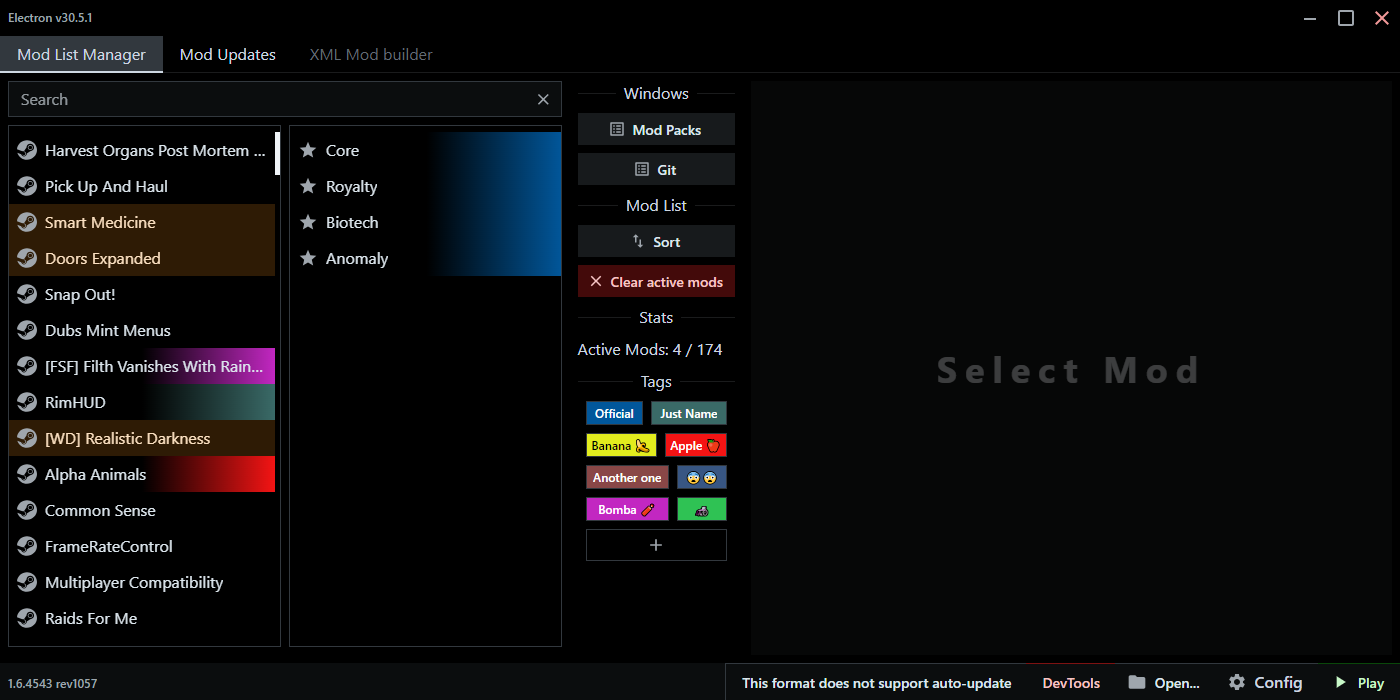
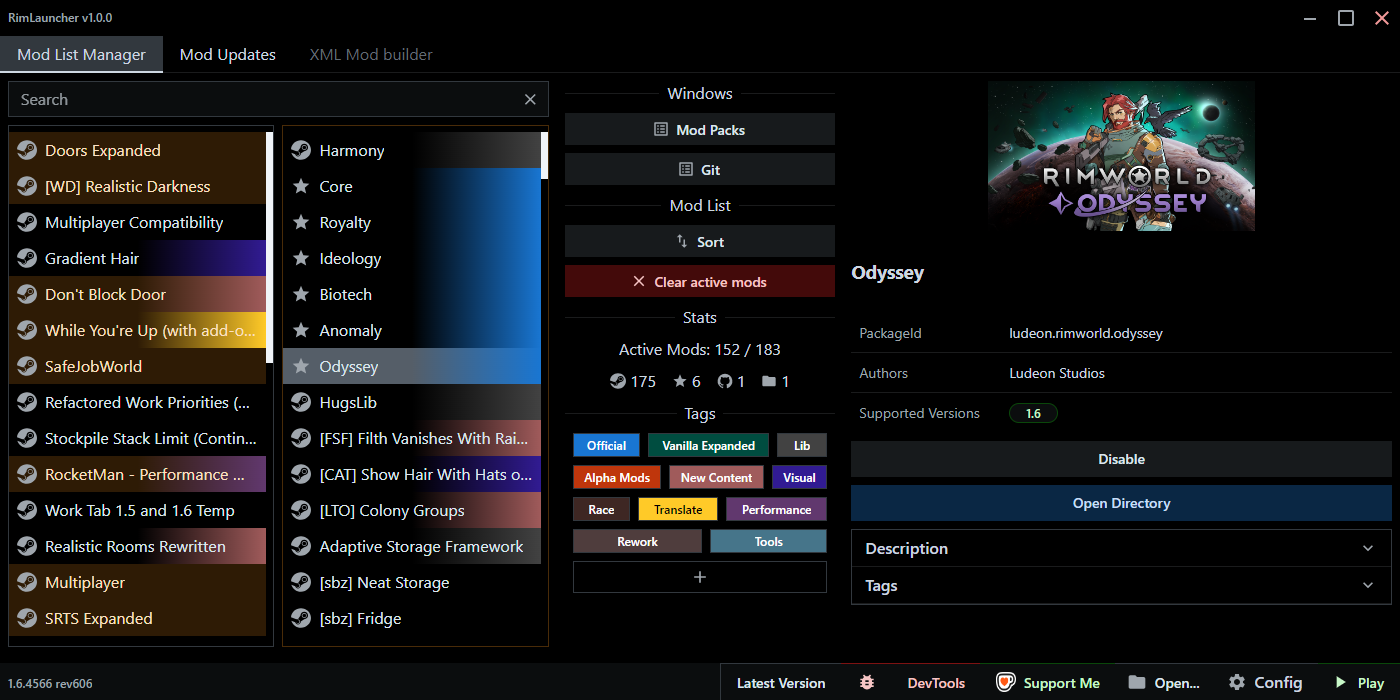
v1.0.0-post

diff --git a/CHANGELOG.md b/CHANGELOG.md
@@ -2,4 +2,9 @@
 
 ## [v1.0.0] - 2025-09-05
 
-Release
+🎉 Initial Release
+
+First stable version of the project, ready to use.
+
+# Known issues
+- Updating mods from git may not work properly.
